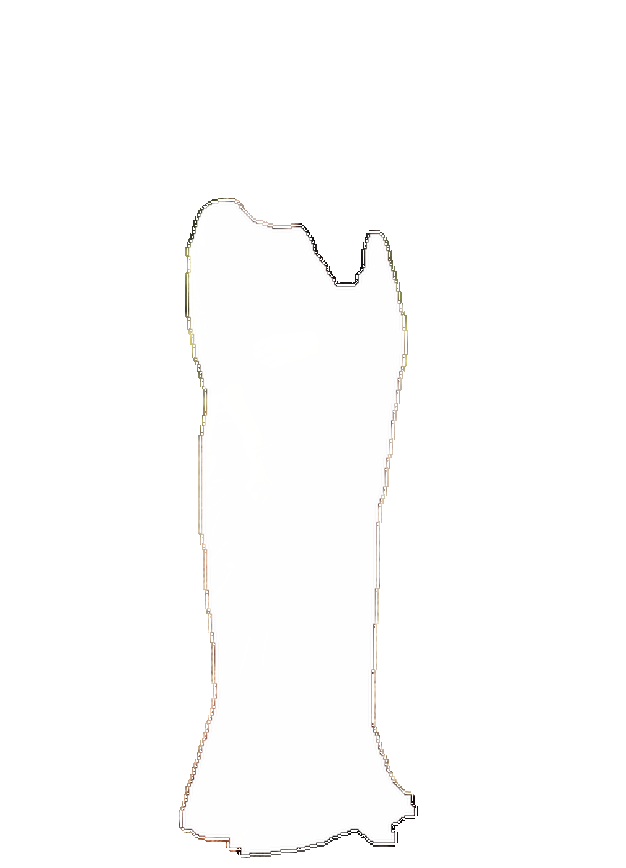
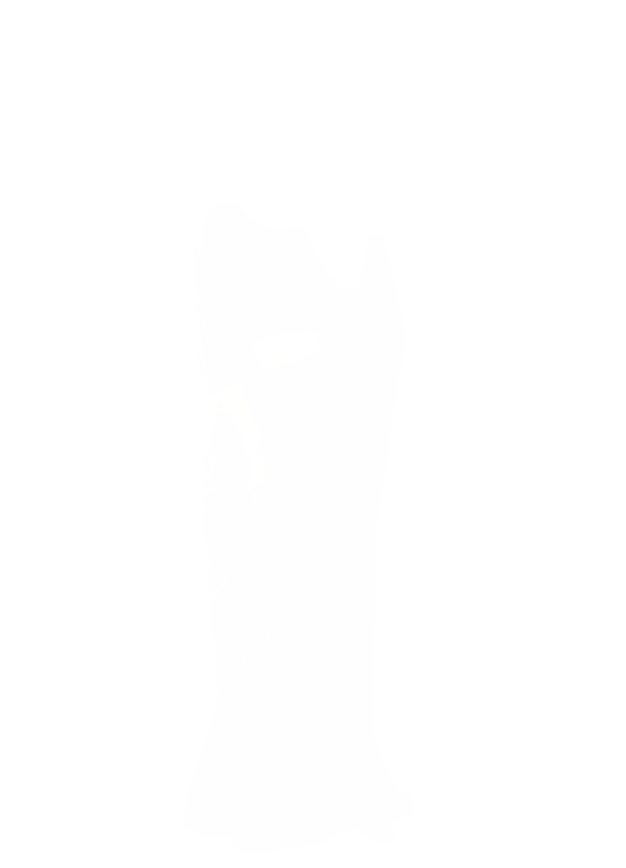
test masking

diff --git a/masking_demo.py b/masking_demo.py
@@ -1,13 +1,15 @@
-
 import numpy as np
 import cv2
 from PIL import Image
 import mediapipe as mp
 from functools import wraps
 from time import time
-from pathlib import Path
 from Masking.preprocess.humanparsing.run_parsing import Parsing
 from Masking.preprocess.openpose.run_openpose import OpenPose
+from pathlib import Path
+from skimage import measure, morphology
+from scipy import ndimage
+from modules.rembg import remove
 
 def timing(f):
     @wraps(f)
@@ -24,9 +26,8 @@ class Masking:
     def __init__(self):
         self.parsing_model = Parsing(-1)
         self.openpose_model = OpenPose(-1)
-        self.mp_hands = mp.solutions.hands
-        self.mp_drawing = mp.solutions.drawing_utils
-        self.hands = self.mp_hands.Hands(static_image_mode=True, max_num_hands=2, min_detection_confidence=0.5)
+        self.mp_pose = mp.solutions.pose
+        self.pose = self.mp_pose.Pose(static_image_mode=True, model_complexity=2, min_detection_confidence=0.5)
         self.label_map = {
             "background": 0, "hat": 1, "hair": 2, "sunglasses": 3, "upper_clothes": 4,
             "skirt": 5, "pants": 6, "dress": 7, "belt": 8, "left_shoe": 9, "right_shoe": 10,
@@ -36,146 +37,122 @@ class Masking:
 
     @timing
     def get_mask(self, img, category='upper_body'):
-        # Resize image to 384x512 for processing
-        img_resized = img.resize((384, 512), Image.LANCZOS)
+        img_resized = img.resize((384, 512), Image.Resampling.LANCZOS)
         img_np = np.array(img_resized)
         
-        # Get human parsing result
         parse_result, _ = self.parsing_model(img_resized)
         parse_array = np.array(parse_result)
 
-        # Get pose estimation
         keypoints = self.openpose_model(img_resized)
         pose_data = np.array(keypoints["pose_keypoints_2d"]).reshape((-1, 2))
 
-        # Create initial mask based on category
         if category == 'upper_body':
-            mask = np.isin(parse_array, [self.label_map["upper_clothes"], self.label_map["dress"]])
+            mask = np.isin(parse_array, [self.label_map["upper_clothes"]])
         elif category == 'lower_body':
             mask = np.isin(parse_array, [self.label_map["pants"], self.label_map["skirt"]])
         elif category == 'dresses':
-            mask = np.isin(parse_array, [self.label_map["upper_clothes"], self.label_map["dress"], 
-                                         self.label_map["pants"], self.label_map["skirt"]])
+            mask = np.isin(parse_array, [self.label_map["dress"], self.label_map["upper_clothes"], self.label_map["pants"], self.label_map["skirt"]])
         else:
             raise ValueError("Invalid category. Choose 'upper_body', 'lower_body', or 'dresses'.")
 
-        # Create arm mask
-        arm_mask = np.isin(parse_array, [self.label_map["left_arm"], self.label_map["right_arm"]])
-
-        # Create hand mask using MediaPipe
-        hand_mask = self.create_hand_mask(img_np)
-
-        # Combine arm and hand mask
-        arm_hand_mask = np.logical_or(arm_mask, hand_mask)
-
-        # Remove arms and hands from the mask
-        mask = np.logical_and(mask, np.logical_not(arm_hand_mask))
-
-        # Refine the mask
-        mask = self.refine_mask(mask)
+        # Refine the mask using pose estimation
+        refined_mask = self.refine_mask_with_pose(img_np, mask)
+        
+        # Remove small isolated regions and fill holes
+        refined_mask = self.post_process_mask(refined_mask)
 
         # Resize mask back to original image size
-        mask_pil = Image.fromarray(mask.astype(np.uint8) * 255)
-        mask_pil = mask_pil.resize(img.size, Image.LANCZOS)
+        mask_pil = Image.fromarray(refined_mask.astype(np.uint8) * 255)
+        mask_pil = mask_pil.resize(img.size, Image.Resampling.LANCZOS)
         
         return np.array(mask_pil)
 
-    def create_hand_mask(self, image):
+    def refine_mask_with_pose(self, image, initial_mask):
         image_rgb = cv2.cvtColor(image, cv2.COLOR_BGR2RGB)
-        results = self.hands.process(image_rgb)
+        results = self.pose.process(image_rgb)
         
-        hand_mask = np.zeros(image.shape[:2], dtype=np.uint8)
+        refined_mask = initial_mask.copy()
         
-        if results.multi_hand_landmarks:
-            for hand_landmarks in results.multi_hand_landmarks:
-                for landmark in hand_landmarks.landmark:
-                    x, y = int(landmark.x * image.shape[1]), int(landmark.y * image.shape[0])
-                    cv2.circle(hand_mask, (x, y), 15, 255, -1)
+        if results.pose_landmarks:
+            landmarks = results.pose_landmarks.landmark
+            
+            # Define key points for different body parts
+            shoulder_l = np.array([landmarks[11].x, landmarks[11].y])
+            shoulder_r = np.array([landmarks[12].x, landmarks[12].y])
+            hip_l = np.array([landmarks[23].x, landmarks[23].y])
+            hip_r = np.array([landmarks[24].x, landmarks[24].y])
+            
+            # Create a more precise body outline
+            height, width = initial_mask.shape[:2]
+            body_mask = np.zeros((height, width), dtype=np.uint8)
+            
+            # Upper body
+            cv2.fillConvexPoly(body_mask, np.array([
+                (shoulder_l * [width, height]).astype(int),
+                (shoulder_r * [width, height]).astype(int),
+                (hip_r * [width, height]).astype(int),
+                (hip_l * [width, height]).astype(int)
+            ]), 1)
+            
+            # Refine the initial mask
+            refined_mask = np.logical_and(refined_mask, body_mask)
         
-        return hand_mask > 0
+        return refined_mask
 
-    def refine_mask(self, mask):
-        # Convert to uint8 for OpenCV operations
-        mask_uint8 = mask.astype(np.uint8) * 255
+    def post_process_mask(self, mask, min_size=100, kernel_size=5):
+        # Remove small objects
+        mask_cleaned = morphology.remove_small_objects(mask.astype(bool), min_size=min_size)
         
-        # Apply morphological operations to smooth the mask
-        kernel = np.ones((5,5), np.uint8)
-        mask_uint8 = cv2.morphologyEx(mask_uint8, cv2.MORPH_CLOSE, kernel)
-        mask_uint8 = cv2.morphologyEx(mask_uint8, cv2.MORPH_OPEN, kernel)
+        # Fill holes
+        mask_filled = ndimage.binary_fill_holes(mask_cleaned)
         
-        # Find contours and keep only the largest one
-        contours, _ = cv2.findContours(mask_uint8, cv2.RETR_EXTERNAL, cv2.CHAIN_APPROX_SIMPLE)
-        if contours:
-            largest_contour = max(contours, key=cv2.contourArea)
-            mask_refined = np.zeros_like(mask_uint8)
-            cv2.drawContours(mask_refined, [largest_contour], 0, 255, -1)
-        else:
-            mask_refined = mask_uint8
+        # Smooth edges
+        kernel = np.ones((kernel_size, kernel_size), np.uint8)
+        mask_smooth = cv2.morphologyEx(mask_filled.astype(np.uint8), cv2.MORPH_CLOSE, kernel)
         
-        return mask_refined > 0  # Convert back to boolean mask
+        return mask_smooth
 
-    @staticmethod
-    def extend_arm_mask(wrist, elbow, scale):
-        wrist = elbow + scale * (wrist - elbow)
-        return wrist
-
-    @staticmethod
-    def hole_fill(img):
-        img = np.pad(img[1:-1, 1:-1], pad_width = 1, mode = 'constant', constant_values=0)
-        img_copy = img.copy()
-        mask = np.zeros((img.shape[0] + 2, img.shape[1] + 2), dtype=np.uint8)
-
-        cv2.floodFill(img, mask, (0, 0), 255)
-        img_inverse = cv2.bitwise_not(img)
-        dst = cv2.bitwise_or(img_copy, img_inverse)
-        return dst
-    
 def process_images(input_folder, output_folder, category, output_format='png'):
     masker = Masking()
+    
     Path(output_folder).mkdir(parents=True, exist_ok=True)
+    
     image_files = list(Path(input_folder).glob('*'))
     image_files = [f for f in image_files if f.suffix.lower() in ('.png', '.jpg', '.jpeg', '.bmp', '.tiff', '.webp')]
-
+    
     for i, image_file in enumerate(image_files, 1):
+        output_mask = Path(output_folder) / f"output_mask_{i}.{output_format}"
         output_masked = Path(output_folder) / f"output_masked_{i}.{output_format}"
+        
         print(f"Processing image {i}/{len(image_files)}: {image_file.name}")
-
-        input_img = Image.open(image_file).convert('RGBA')
         
-        # Resize input image to 384x512 for processing
-        input_img_resized = input_img.resize((384, 512), Image.Resampling.LANCZOS)
+        input_img = Image.open(image_file).convert('RGB')
         
-        mask = masker.get_mask(input_img_resized, category=category)
+        mask = masker.get_mask(input_img, category=category)
         
-        # Resize mask back to original image size
-        mask = Image.fromarray(mask.astype(np.uint8) * 255)
-        mask = mask.resize(input_img.size, Image.Resampling.LANCZOS)
-        mask = np.array(mask) / 255
-
-        # Create an alpha channel from the mask
-        alpha = (mask * 255).astype(np.uint8)
-
-        # Get the RGB channels from the input image
-        rgb = np.array(input_img.convert('RGB'))
-
-        # Create the final RGBA image
-        rgba = np.dstack((rgb, alpha))
-
-        # Convert to PIL Image
-        result_img = Image.fromarray(rgba)
-
+        Image.fromarray(mask).save(str(output_mask))
+        
+        # Create a new image with transparent background where the mask is 0
+        masked_output = input_img.copy()
+        masked_output.putalpha(Image.fromarray(mask))
+        
+        # Remove background using rembg for better results
+        masked_output_removed_bg = remove(np.array(masked_output))
+        masked_output_removed_bg = Image.fromarray(masked_output_removed_bg)
+        
         if output_format.lower() == 'webp':
-            result_img.save(str(output_masked), format='WebP', lossless=True)
+            masked_output_removed_bg.save(str(output_masked), format='WebP', lossless=True)
         else:
-            result_img.save(str(output_masked))
-
+            masked_output_removed_bg.save(str(output_masked))
+        
+        print(f"Mask saved to {output_mask}")
         print(f"Masked output saved to {output_masked}")
         print()
 
 if __name__ == "__main__":
-    input_folder = Path("/Users/ikramali/projects/arbiosft_products/arbi-tryon/in_im")  # Update this path to your local input folder
-    output_folder = Path("/Users/ikramali/projects/arbiosft_products/arbi-tryon/output")  # Update this path to your local output folder
+    input_folder = Path("/Users/ikramali/projects/arbiosft_products/arbi-tryon/Input_Images")
+    output_folder = Path("/Users/ikramali/projects/arbiosft_products/arbi-tryon/output")
     category = "dresses"  # Change this to "upper_body", "lower_body", or "dresses" as needed
     output_format = "png"
-
+    
     process_images(str(input_folder), str(output_folder), category, output_format)
